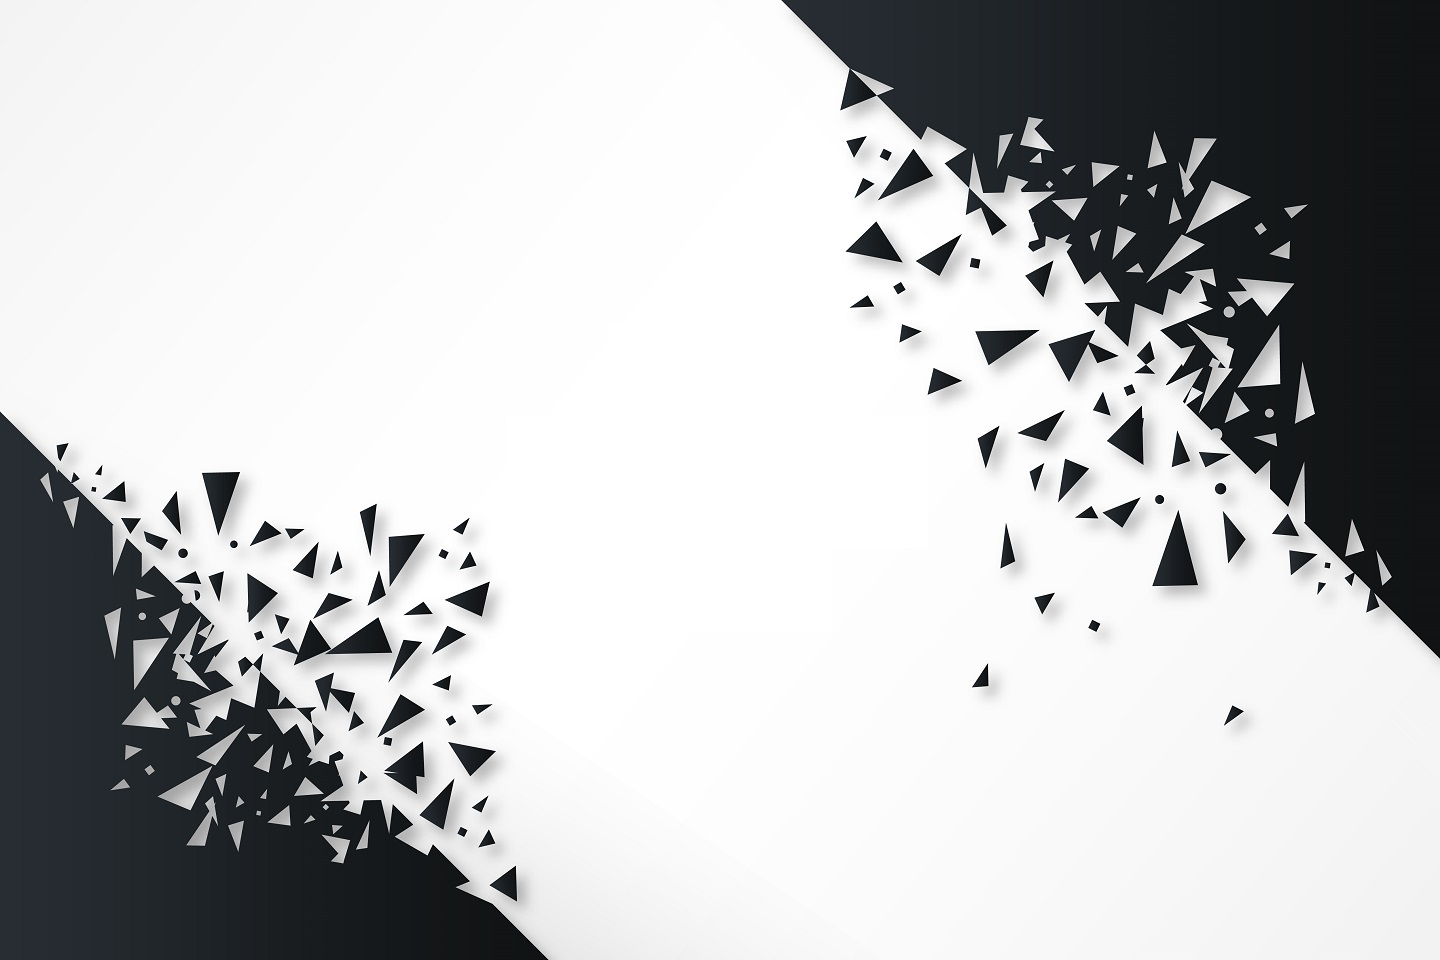
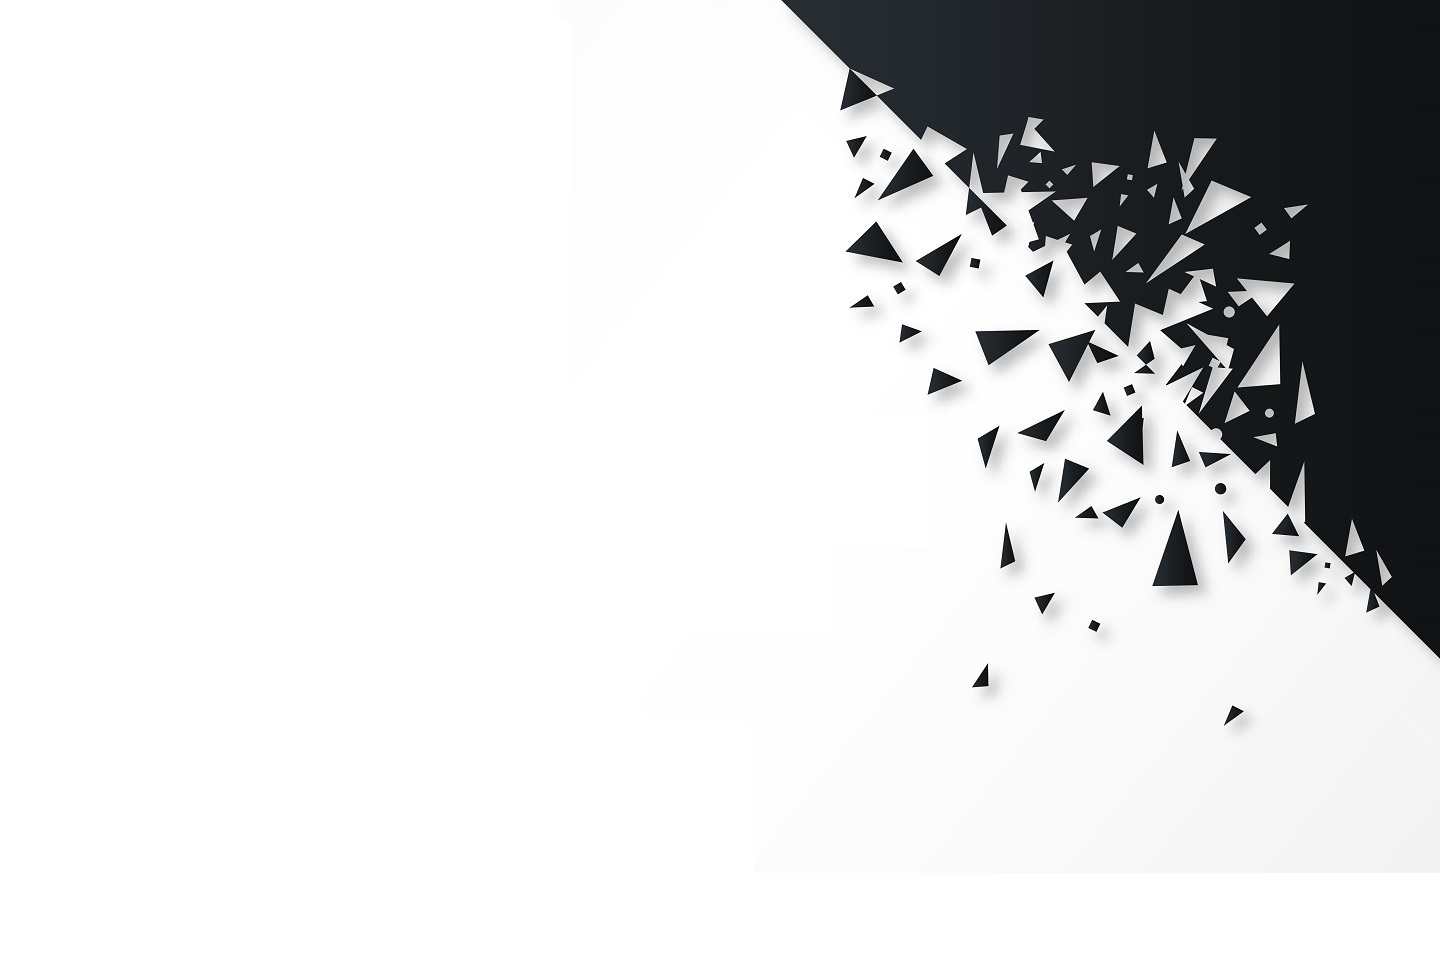
Ajustes para a visão no mobile

Changed region(s): [[0.0, 0.4375, 0.4062, 1.0]]

diff --git a/index.html b/index.html
@@ -17,7 +17,6 @@
     <!-- TopBar -->
     <nav class="white" role="navigation">
         <div class="nav-wrapper container">
-          <img src="images/foto.jpg" width="100px" height="100px" class="circle"/>
           <ul class="right hide-on-med-and-down">
             <li><a href="#">Nav no PC</a></li>
           </ul>
@@ -31,16 +30,17 @@
     <!-- /TopBar -->            
     <!-- Primeiro Parallax -->
     <div id="index-banner" class="parallax-container">
-      <div class="section no-pad-bot">
-        <div class="container">
-          <h1 class="header teal-text">Herrison Féres</h1>
+      <div style="margin-right: 50%; margin-top: 3%">
+        <div class="container" >
+          <img src="images/foto.jpg" width="100px" height="100px" class="responsive-img"/>
+          <h1 class="header teal-text" style="font-size:4vw;">Herrison Féres</h1>
           <div class="row">
-            <h5 class="teal-text text-lighten-3">Analista desenvolvedor</h5>
+            <h5 class="teal-text text-lighten-3" style="font-size:3vw;">Analista desenvolvedor</h5>
           </div>
         </div>
       </div>
-      <!-- Crédito ao criador da imagem -->
-      <div class="parallax"><a href="https://www.freepik.com/free-photos-vectors/background"><img src="images/729.jpg" alt="Created by BiZkettE1"></a></div>
+      <!-- Imagem modificada, mas crédito ao autor da imagem -->
+      <div class="parallax"><a href="https://www.freepik.com/free-photos-vectors/background"><img src="images/729.jpg" alt="Created by BiZkettE1" class="responsive-img"></a></div>
     </div>
     <!-- /Primeiro Parallax -->           
                 
